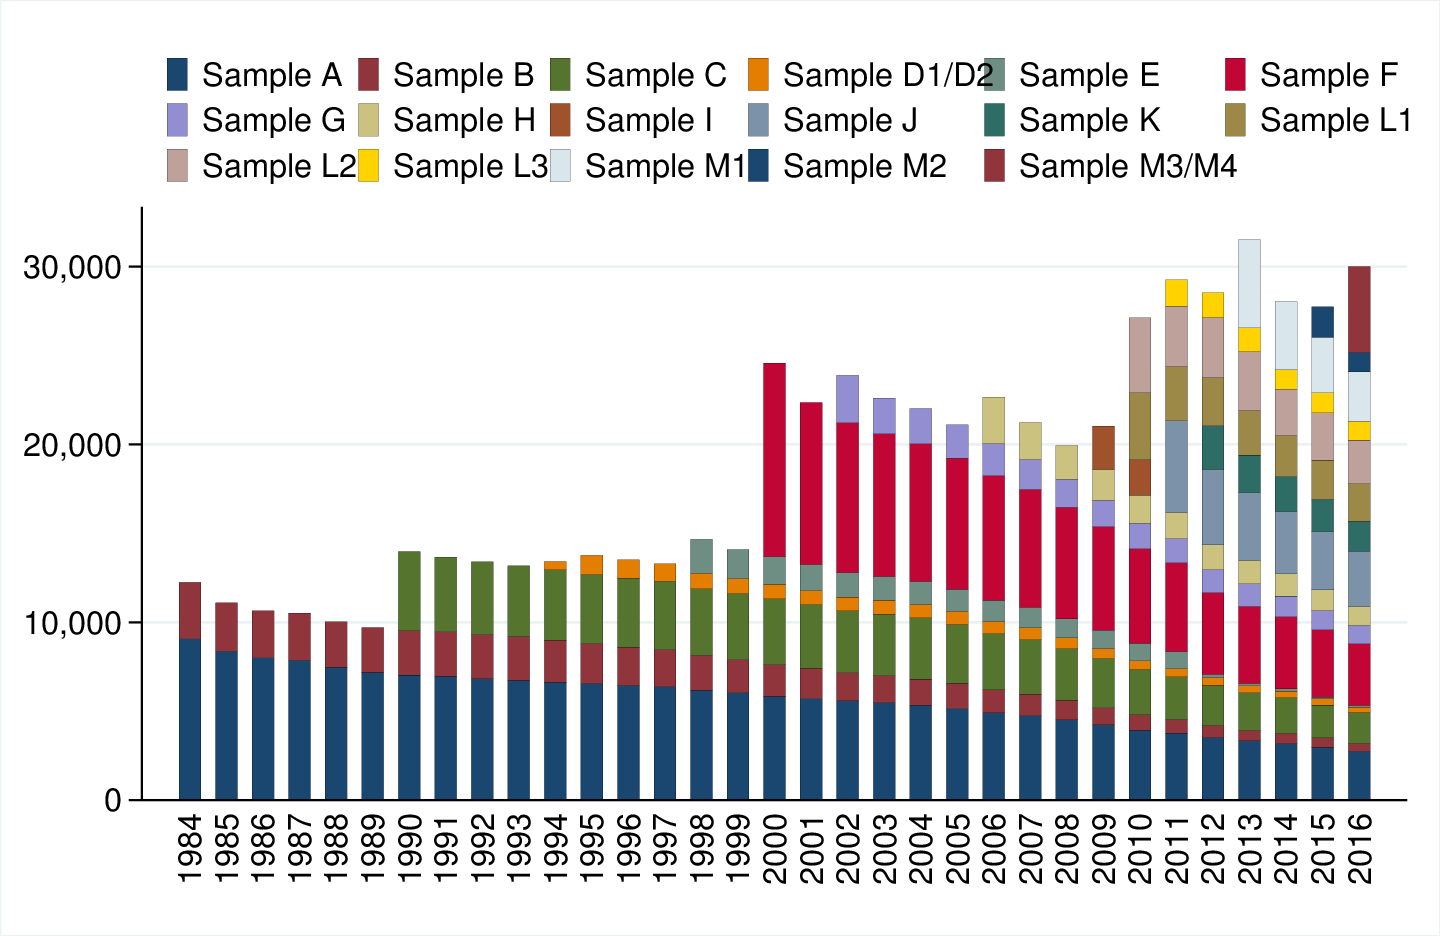
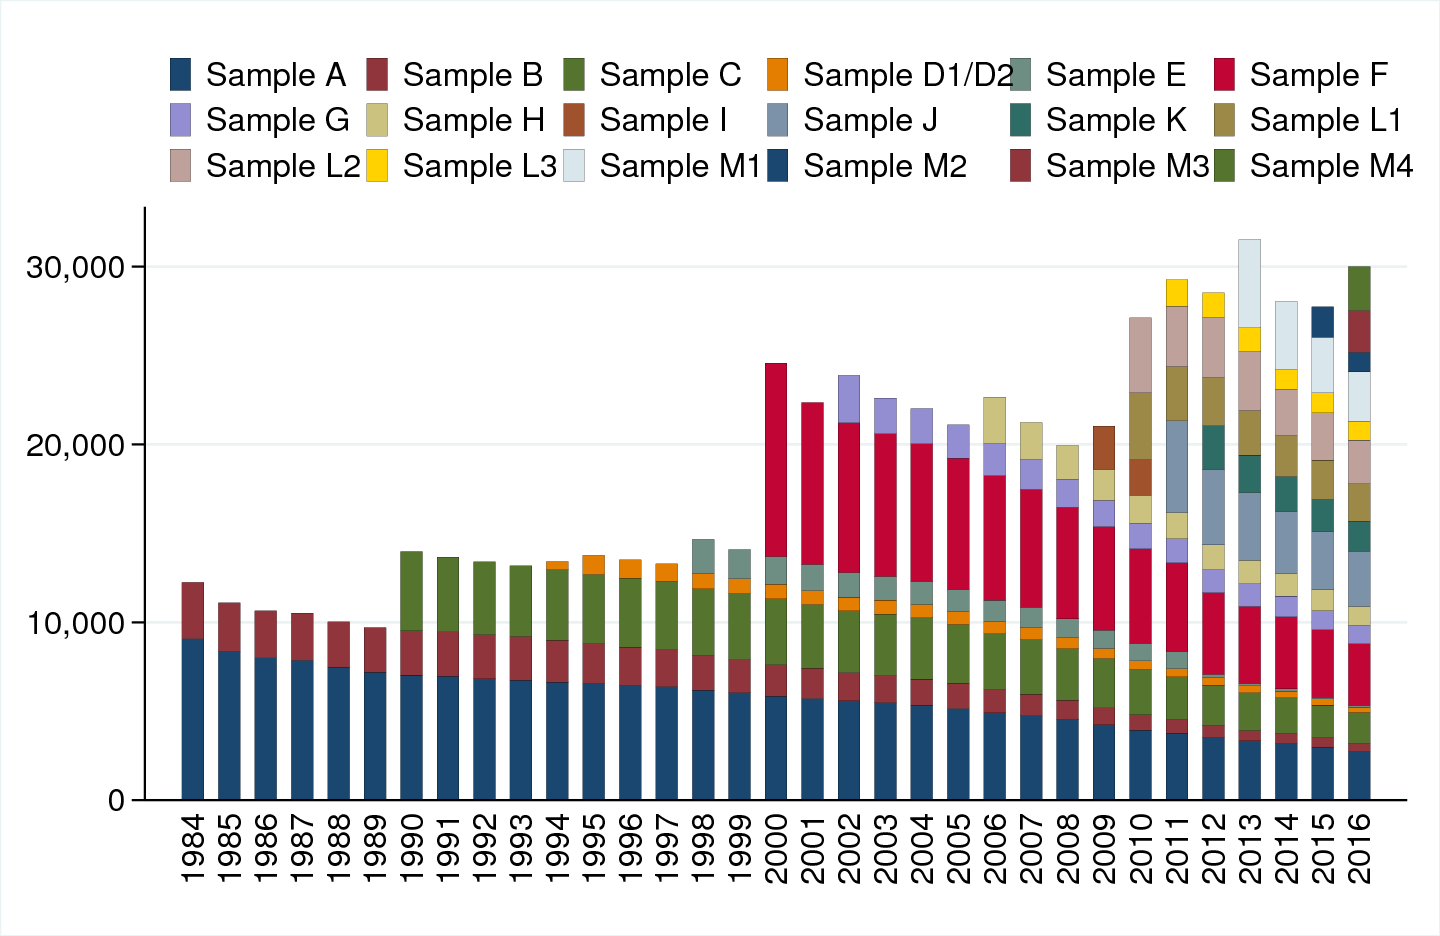
update graphs and table

diff --git a/soep/dtc/sample.md b/soep/dtc/sample.md
@@ -227,6 +227,8 @@ Table 4: Starting Sample Size of the SOEP Samples
 | L3   	 | 2011 |   924   		   |  3,645  		 |  1,487  			 |  4.2                            	   | 2,092            |
 | M1   	 | 2013 | 2,723   		   |  8,522  		 |  4,964  			 | 17.8                            	   | 2,481            |
 | M2   	 | 2015 | 1,096   		   |  3,048  		 |  1,711  			 | 19.3                            	   |   927            |
+| M3     | 2016 | 1,775   		   |  4,823   		 |  2,351  			 | 22.0                                | 1,808            |
+| M4     | 2016 | 1,779   		   |  7,297   		 |  2,465  			 | 27.1                                | 3,915	          |
 
 
 Figure 3: Cross-Sectional Development of Sample Size (Respondents)
